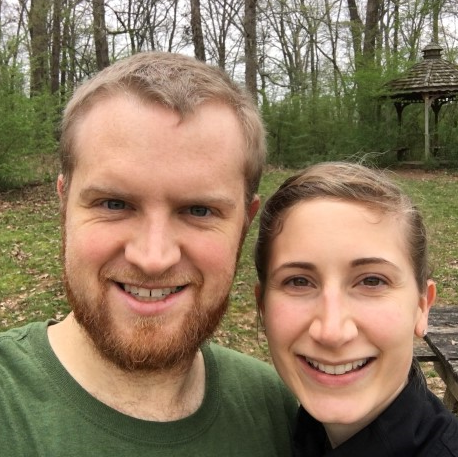
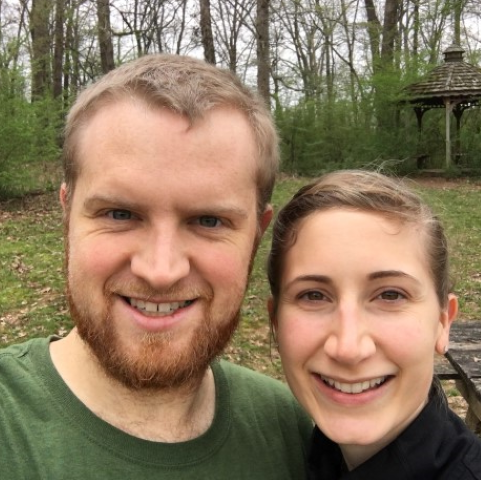
Replace profile picture and fix typo

diff --git a/js/projects.js b/js/projects.js
@@ -36,7 +36,7 @@ const projectObj = {
     {
       name:'Data Science and Algorithms Quiz',
       url: 'https://elated-jackson-e60e1b.netlify.com/',
-      description: 'A quiz geared towards helping students learn Data Science Concepts by implementing a spaced repetition question frequency algorithm. If the student gets a question correct, they will not see the question as often. If they get a specific question wrong, however, it will appear more frequently unil their knowledge improves.', 
+      description: 'A quiz geared towards helping students learn Data Science Concepts by implementing a spaced repetition question frequency algorithm. If the student gets a question correct, they will not see the question as often. If they get a specific question wrong, however, it will appear more frequently until their knowledge improves.', 
       imageUrl:'../src/img/dsa.png',
       linktorepo: 'https://github.com/thinkful-ei18/sr-client-cm-eg',
       myrole: 'On this project I worked with <a href="https://github.com/christinamakes">Christina Moore</a>, a fellow Thinkful graduate and an excellent frontend developer. My role was in writing most of the server-side code for this app.We made use of a Javascript based Linkedlist Class  which is stored in the database to manage the user\'s quiz data flow. I wrote a Spaced Repetition Algorithm that makes use of static methods on the Linked List class to adjust the frequency with which the user would encounter a question based upon their answer.',
